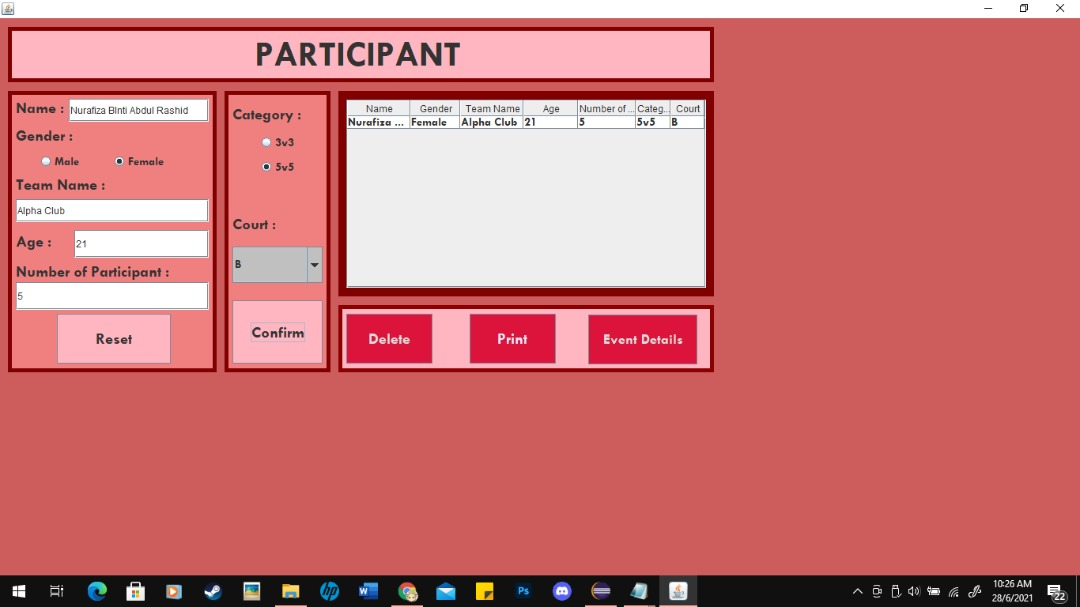
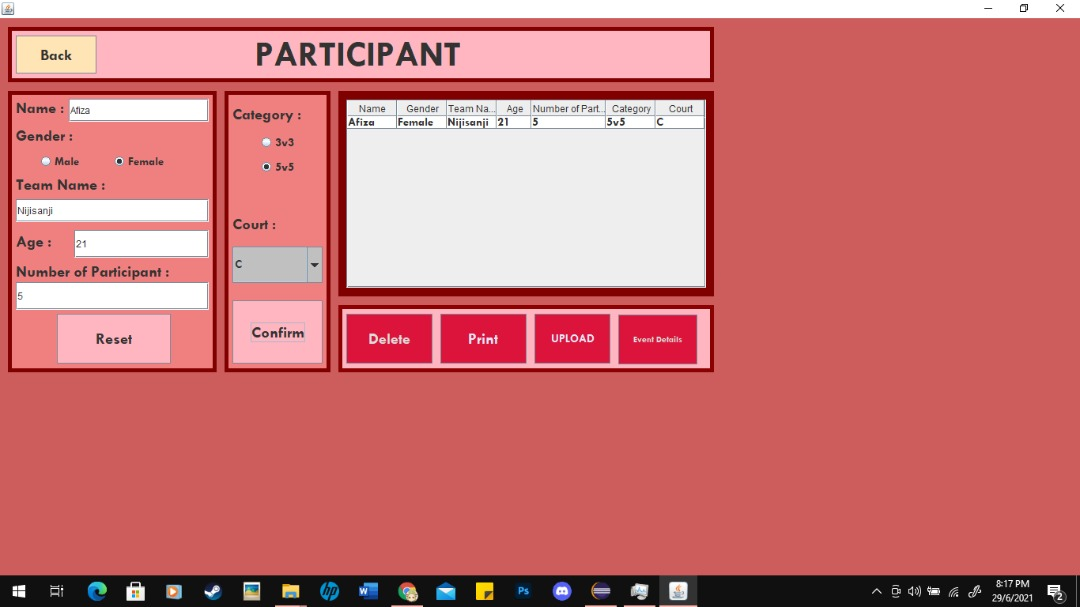
Add files via upload

diff --git a/Assigment3/Employees.java b/Assigment3/Employees.java
@@ -187,6 +187,7 @@ public class Employees extends JFrame{
 		JButton btnNewButton = new JButton("ADD");
 		btnNewButton.addActionListener(new ActionListener() {
 			public void actionPerformed(ActionEvent e) {
+				
 				String gender= " ";
 					
 				if (male.isSelected()) {
@@ -196,7 +197,7 @@ public class Employees extends JFrame{
 					gender = female.getText();
 				
 				}
-			
+				
 				DefaultTableModel model = (DefaultTableModel) table.getModel();
 				model.addRow(new Object[]{
 						comboBoxDepartment.getSelectedItem(),
@@ -204,6 +205,8 @@ public class Employees extends JFrame{
 						IDtextField.getText(),
 						gender,
 						SalarytextField.getText(),
+						
+						
 						
 												
 				});
@@ -252,7 +255,7 @@ public class Employees extends JFrame{
 		});
 		btnNewButton_2.setFont(new Font("Tw Cen MT", Font.BOLD, 20));
 		btnNewButton_2.setBackground(new Color(221, 160, 221));
-		btnNewButton_2.setBounds(10, 11, 138, 46);
+		btnNewButton_2.setBounds(10, 11, 121, 46);
 		panel_3.add(btnNewButton_2);
 		
 		JButton btnNewButton_3 = new JButton("PRINT");
@@ -267,7 +270,7 @@ public class Employees extends JFrame{
 		});
 		btnNewButton_3.setFont(new Font("Tw Cen MT", Font.BOLD, 20));
 		btnNewButton_3.setBackground(new Color(221, 160, 221));
-		btnNewButton_3.setBounds(158, 11, 128, 46);
+		btnNewButton_3.setBounds(141, 11, 121, 46);
 		panel_3.add(btnNewButton_3);
 		
 		JButton btnNewButton_4 = new JButton("EXIT");
@@ -282,7 +285,7 @@ public class Employees extends JFrame{
 	});
 		btnNewButton_4.setFont(new Font("Tw Cen MT", Font.BOLD, 20));
 		btnNewButton_4.setBackground(new Color(221, 160, 221));
-		btnNewButton_4.setBounds(446, 11, 189, 46);
+		btnNewButton_4.setBounds(533, 11, 102, 46);
 		panel_3.add(btnNewButton_4);
 		
 		JButton btnNewButton_6 = new JButton("UPLOAD");
@@ -313,8 +316,27 @@ public class Employees extends JFrame{
 	});
 		btnNewButton_6.setBackground(new Color(221, 160, 221));
 		btnNewButton_6.setFont(new Font("Tw Cen MT", Font.BOLD, 20));
-		btnNewButton_6.setBounds(296, 11, 138, 46);
+		btnNewButton_6.setBounds(272, 11, 126, 46);
 		panel_3.add(btnNewButton_6);
+		
+		JButton btnFinance = new JButton("FINANCE");
+		btnFinance.addActionListener(new ActionListener() {
+			public void actionPerformed(ActionEvent e) {
+				
+				String salary = SalarytextField.getText();
+				Finance fin = new Finance();
+				fin.update(salary);
+				
+				fin.setVisible(true);
+				dispose();
+			
+				
+			}
+		});
+		btnFinance.setFont(new Font("Tw Cen MT", Font.BOLD, 20));
+		btnFinance.setBackground(new Color(221, 160, 221));
+		btnFinance.setBounds(408, 11, 115, 46);
+		panel_3.add(btnFinance);
 		
 		JButton btnNewButton_5 = new JButton("UPLOAD");
 		btnNewButton_5.addActionListener(new ActionListener() {
@@ -326,17 +348,8 @@ public class Employees extends JFrame{
 		setBounds(100, 100, 681, 501);
 		setDefaultCloseOperation(JFrame.EXIT_ON_CLOSE);
 	}
-
-	public void setModalExclusionType(Object object) {
-		// TODO Auto-generated method stub
 		
-	}
-
-	public void setVisible(boolean b) {
-		// TODO Auto-generated method stub
 		
-	}
-
-});
+		});
 	}
 	};

diff --git a/Assigment3/Marketing.java b/Assigment3/Marketing.java
@@ -17,6 +17,7 @@ import javax.swing.JComboBox;
 import javax.swing.JTextField;
 import javax.swing.JButton;
 import java.awt.event.ActionListener;
+import java.text.DecimalFormat;
 import java.awt.event.ActionEvent;
 
 public class Marketing extends JFrame{
@@ -28,6 +29,8 @@ public class Marketing extends JFrame{
 	/**
 	 * Launch the application.
 	 */
+	
+	   private static DecimalFormat df2 = new DecimalFormat("#.##");
 	public static void main(String[] args) {
 		EventQueue.invokeLater(new Runnable() {
 			public void run() {
@@ -145,17 +148,48 @@ public class Marketing extends JFrame{
 		contentPane.add(btnRegisterParticipant);
 		
 		btnNewButton.addActionListener(event -> payment());
-	}
-
-	public void setModalExclusionType(Object object) {
-		// TODO Auto-generated method stub
-		
-	}
-
-	public void setVisible(boolean b) {
-		// TODO Auto-generated method stub
 	
 		
+
+
+	
+}
+public void payment() {
+PriceRate pay = new PriceRate();
+
+	String c = DaytextField.getText();
+	String discpay;
+	
+	
+	/*
+	if(c == sat) {
+		
+		discpay = String.valueOf(df2.format(pay.totalPrice(discount)));
+		//PaymentTextField.setText("RM" + discpay);
+		}
+	else {
+		discpay = String.valueOf(pay.totalPrice());
+		//discpay = String.valueOf(df2.format(pay.totalPrice(discount)));
+		//PaymentTextField.setText("RM" + discpay);
+		}
+	*/
+	
+	if (c.equals("Friday") || c.equals("Saturday")) {
+		WeekendDiscount calc = new WeekendDiscount();
+		double discount = calc.disc();
+		discpay = String.valueOf(df2.format(pay.totalPrice(discount)));
 	}
+	
+	else
+		discpay = String.valueOf(pay.totalPrice());
+	
+	PaymentTextField.setText("RM " + discpay);
+}
+
 
 }
+
+
+
+
+

diff --git a/Assigment3/Participant.java b/Assigment3/Participant.java
@@ -76,6 +76,21 @@ public class Participant extends JFrame {
 		lblNewLabel.setBounds(312, 11, 276, 48);
 		panel.add(lblNewLabel);
 		
+		JButton btnNewButton_6 = new JButton("Back");
+		btnNewButton_6.addActionListener(new ActionListener() {
+			public void actionPerformed(ActionEvent e) {
+				MainPage frame =  new MainPage();
+				frame.setModalExclusionType(null);
+				frame.setVisible(true);
+				dispose();
+				
+			}
+		});
+		btnNewButton_6.setBackground(new Color(255, 228, 181));
+		btnNewButton_6.setFont(new Font("Tw Cen MT", Font.BOLD, 20));
+		btnNewButton_6.setBounds(10, 11, 102, 48);
+		panel.add(btnNewButton_6);
+		
 		JPanel panel_1 = new JPanel();
 		panel_1.setBorder(new LineBorder(new Color(128, 0, 0), 5));
 		panel_1.setBackground(new Color(240, 128, 128));
@@ -202,6 +217,7 @@ public class Participant extends JFrame {
 						NumberOfParticipantTextField.getText(),
 						category,
 						comboBoxCourt.getSelectedItem(),
+						
 					
 						
 						
@@ -330,7 +346,7 @@ public class Participant extends JFrame {
 		});
 		btnNewButton_3.setBackground(new Color(220, 20, 60));
 		btnNewButton_3.setForeground(new Color(220, 220, 220));
-		btnNewButton_3.setFont(new Font("Tw Cen MT", Font.BOLD, 14));
+		btnNewButton_3.setFont(new Font("Tw Cen MT", Font.BOLD, 11));
 		btnNewButton_3.setBounds(354, 12, 100, 63);
 		panel_3.add(btnNewButton_3);
 		

diff --git a/Assigment3/Finance.java b/Assigment3/Finance.java
@@ -293,7 +293,6 @@ public class Finance extends JFrame{
 			public void actionPerformed(ActionEvent e) {
 		try {
 					File file= new File("C:\\Users\\USER\\Documents\\Eclipsea\\Assigment3\\src\\Assigment3\\finance.txt");
-					
 					if(!file.exists()) {
 						file.createNewFile();
 					}
@@ -316,6 +315,7 @@ public class Finance extends JFrame{
 			}
 		});
 			
+			
 		btnSaveButton.setBackground(new Color(255, 192, 203));
 		btnSaveButton.setFont(new Font("Tw Cen MT", Font.BOLD, 20));
 		btnSaveButton.setBounds(457, 56, 120, 46);
@@ -333,7 +333,7 @@ public class Finance extends JFrame{
 		table = new JTable();
 		table.setModel(new DefaultTableModel(
 			new Object[][] {
-				{null, null, null, null, null, null, null, null, null, null},
+				{},
 			},
 			new String[] {
 				"Employee Quantity", "Employee Salary", "Prize", "Utility Fee", "Ads fee", "Participant Quantity", "Registration Fee", "Budget", "Total Income", "Net Profit"
@@ -341,4 +341,11 @@ public class Finance extends JFrame{
 		));
 		scrollPane.setViewportView(table);
 	}
+
+	public void update(String salary) {
+		EmpSalaryTextField.setText(salary);
+		// TODO Auto-generated method stub
+		
+	}
+
 }

diff --git a/Assigment3/PriceRate.java b/Assigment3/PriceRate.java
@@ -1,0 +1,54 @@
+package Assigment3;
+
+/*
+public class PriceRate implements Payment{
+	
+		double regFee = 50; 
+
+		public double totalPrice() {
+			return regFee;
+		}
+		public double totalPrice(double disc) {
+			return regFee * (1-disc);
+		}
+	
+		public double totalPrice(String d, double disc) {
+			
+			if(d.equals("Friday") || d.equals("Saturday")) {
+				return totalPrice(0.2);
+			}
+			else {
+				System.out.println("There is no discount on that day!");
+			}
+			
+			return totalPrice(0.2);
+		}
+		
+	}
+*/
+public class PriceRate implements Payment{
+	
+	double regFee = 50; 
+	double ttl;
+
+	public double totalPrice() {
+		return regFee;
+	}
+	public double totalPrice(double disc) {
+		return regFee * (1-disc);
+	}
+
+	public double totalPrice(String d, double disc) {
+		
+		if(d.equals("Friday") || d.equals("Saturday")) {
+			ttl = disc*regFee;
+			return ttl;
+		}
+		else {
+			System.out.println("There is no discount on that day!");
+		}
+		
+		return totalPrice(0.2);
+	}
+	
+}

diff --git a/Assigment3/MainPage.java b/Assigment3/MainPage.java
@@ -102,7 +102,7 @@ public class MainPage extends JFrame {
 		JButton btnNewButton_1 = new JButton("PARTICIPANT");
 		btnNewButton_1.addActionListener(new ActionListener() {
 			public void actionPerformed(ActionEvent e) {
-				Participant pa = new Participant();
+				Marketing pa = new Marketing();
 				pa.setModalExclusionType(null);
 				pa.setVisible(true);
 				dispose();

diff --git a/Assigment3/MarketingCalc.java b/Assigment3/MarketingCalc.java
@@ -2,8 +2,6 @@ package Assigment3;
 import java.util.Scanner;
 public class MarketingCalc {
 	
-	
-
 	public class MarketingCalc extends Basketball implements Payment {
 		
 		Scanner sc = new Scanner(System.in);

diff --git a/Assigment3/WeekendDiscount.java b/Assigment3/WeekendDiscount.java
@@ -1,0 +1,9 @@
+package Assigment3;
+
+public class WeekendDiscount implements Discount{ 
+	
+	public double disc() { 
+		return 0.20; 
+	
+	}
+}
